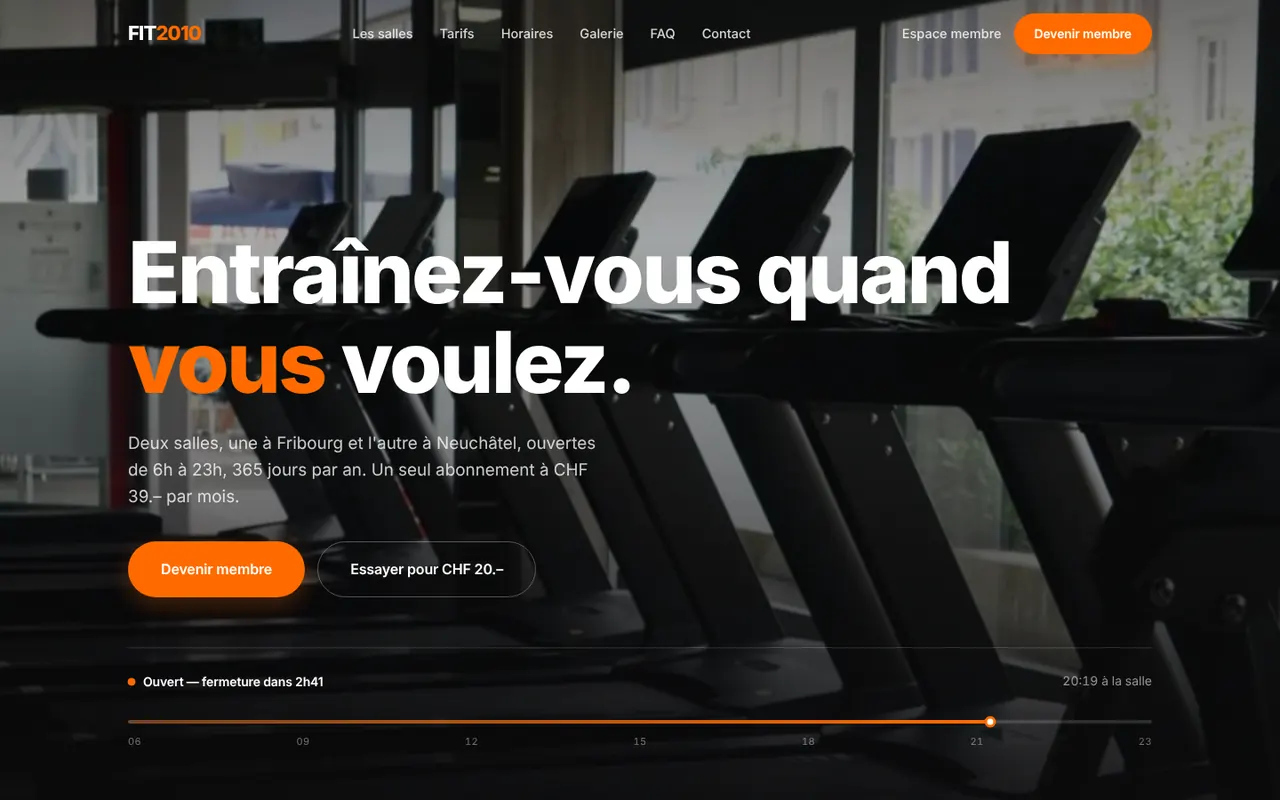
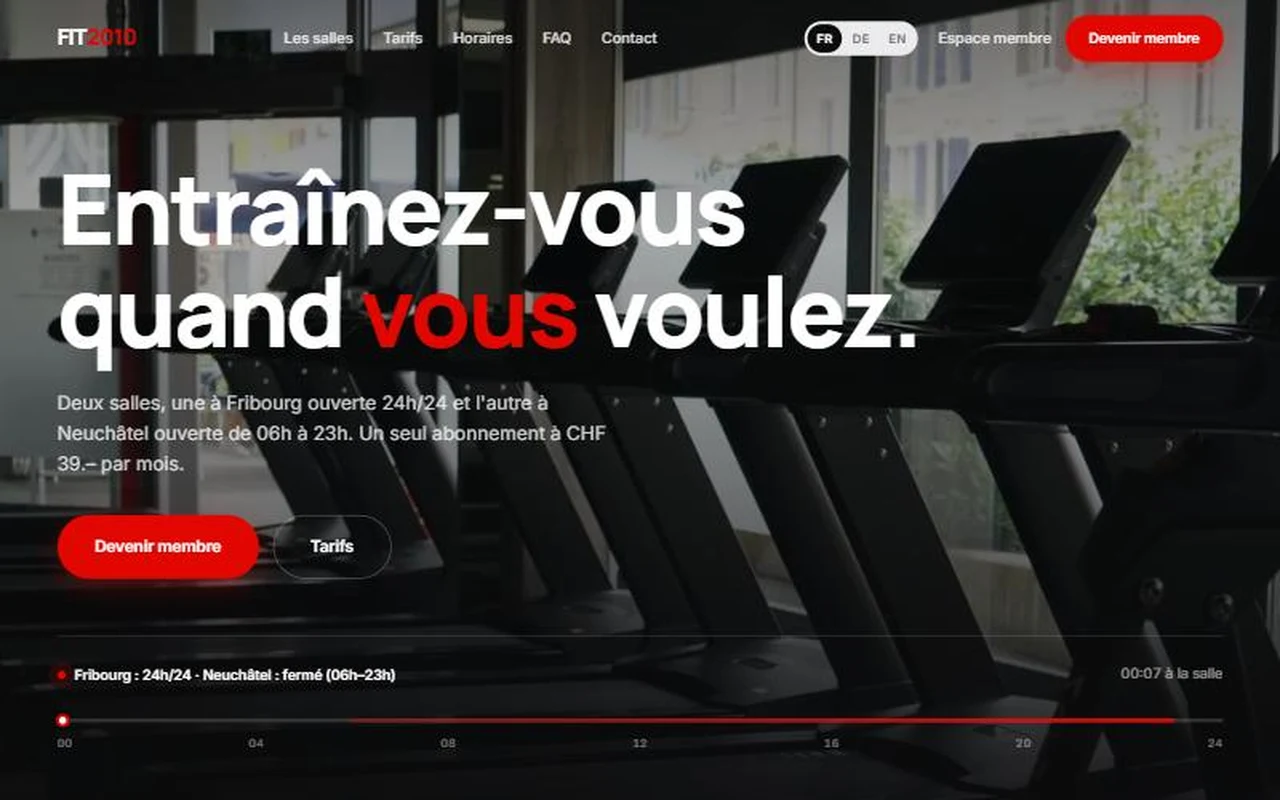
Fit2010 : nouveau texte et nouvelle capture (site désormais rouge)
Claude-Session: https://claude.ai/code/session_01Rg7M4ZNmE2BACR8sz4MSb2

diff --git a/index.html b/index.html
@@ -21,10 +21,10 @@
 <meta name="twitter:card" content="summary_large_image">
 <link rel="preload" href="assets/fonts/bricolage.woff2" as="font" type="font/woff2" crossorigin>
 <link rel="preload" href="assets/fonts/inter.woff2" as="font" type="font/woff2" crossorigin>
-<link rel="stylesheet" href="assets/relief.css?v=20261126">
-<script defer src="site-config.js?v=20261126"></script>
-<script defer src="assets/relief-ui.js?v=20261126"></script>
-<script type="module" src="assets/relief-3d.min.js?v=20261126"></script>
+<link rel="stylesheet" href="assets/relief.css?v=20261126b">
+<script defer src="site-config.js?v=20261126b"></script>
+<script defer src="assets/relief-ui.js?v=20261126b"></script>
+<script type="module" src="assets/relief-3d.min.js?v=20261126b"></script>
 <script type="application/ld+json">
 {"@context":"https://schema.org","@graph":[
 {"@type":"ProfessionalService","@id":"https://darkospasenov.github.io/relief/#studio","name":"Relief","description":"Studio web suisse : création de sites internet sur mesure à Fribourg.","url":"https://darkospasenov.github.io/relief/","logo":"https://darkospasenov.github.io/relief/assets/favicon.png","image":"https://darkospasenov.github.io/relief/assets/og-image.jpg","email":"info@ds-digital.ch","address":{"@type":"PostalAddress","streetAddress":"Route de Lossy 39","postalCode":"1782","addressLocality":"Belfaux","addressRegion":"FR","addressCountry":"CH"},"areaServed":[{"@type":"AdministrativeArea","name":"Canton de Fribourg"},{"@type":"Country","name":"Suisse"}],"knowsLanguage":"fr","founder":{"@type":"Person","name":"Darko Spasenov"},"employee":[{"@type":"Person","name":"Darko Spasenov","jobTitle":"Fondateur et créateur de site web"},{"@type":"Person","name":"Boris Stankovski","jobTitle":"Créateur de site web"},{"@type":"Person","name":"Maik Haufschmid","jobTitle":"Responsable commercial"}],
@@ -164,8 +164,8 @@
           </a>
           <div class="climb-copy">
             <p class="summit"><span class="blaze" aria-hidden="true"></span>03 · Salle de sport</p>
-            <h3>fit2010</h3>
-            <p class="climb-desc">Salles de fitness à Fribourg (24 h/24) et Neuchâtel, inscription en ligne.</p>
+            <h3>Fit2010</h3>
+            <p class="climb-desc">Salle de fitness à Fribourg et Neuchâtel, inscription en ligne.</p>
             <p class="climb-what"><span class="pill">Site avec abonnement</span></p>
             <a class="link-arrow" href="https://fit2010.ch" target="_blank" rel="noopener">fit2010.ch ↗</a>
           </div>
